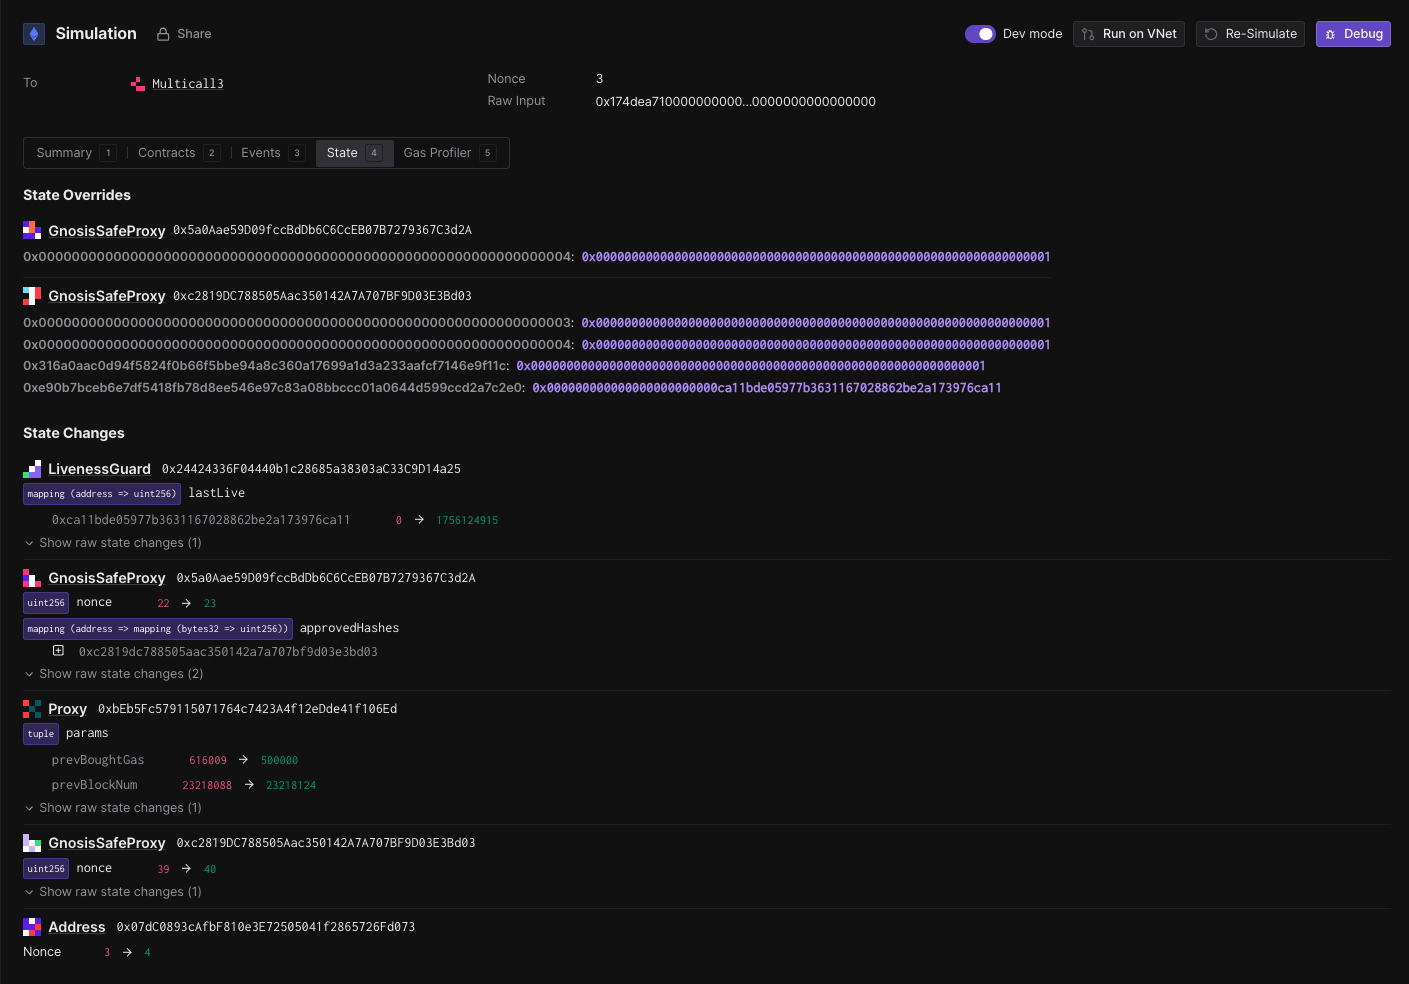
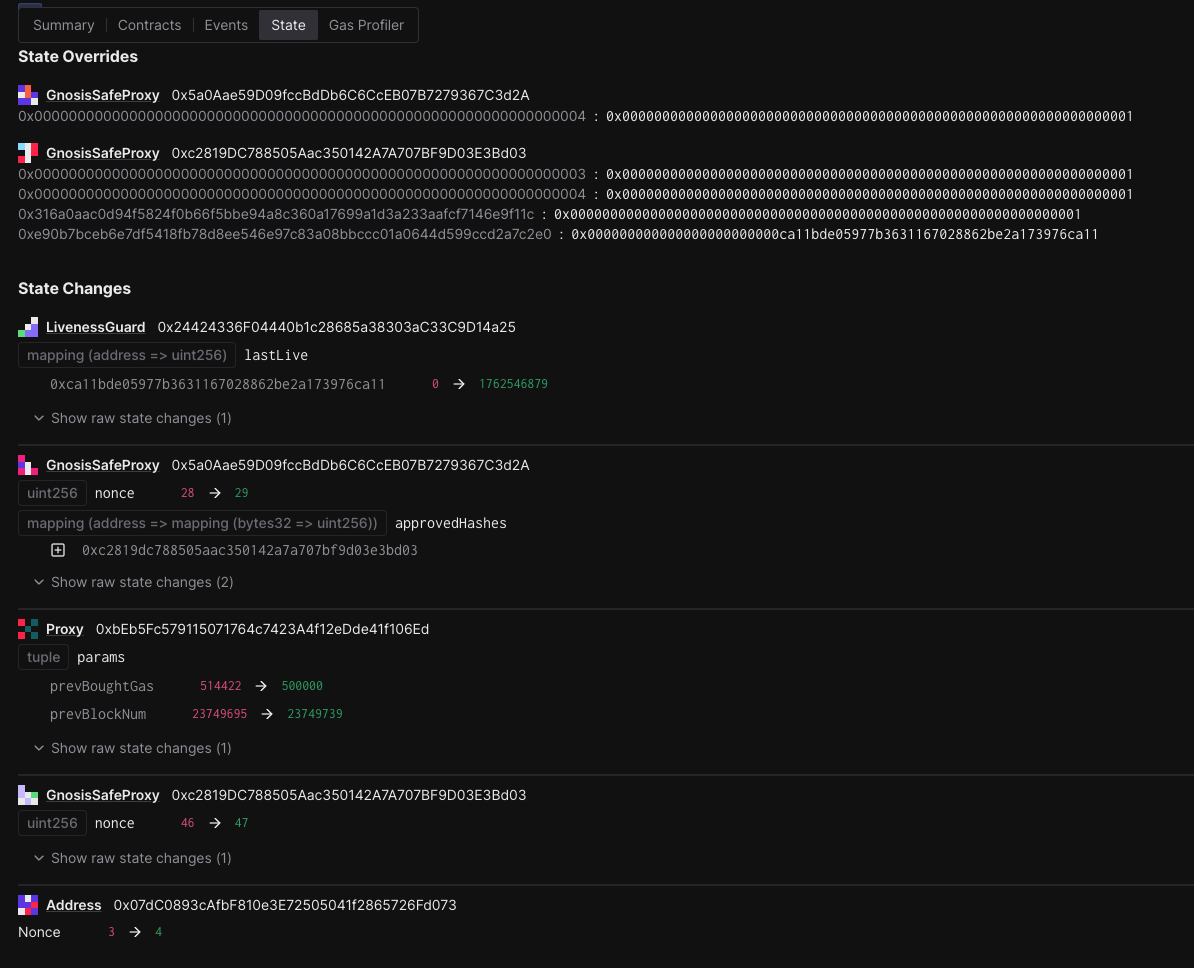
fix: replaced mocked upgrade

diff --git a/security-council-rehearsals/rehearsal-4-noop-upgrade/README.md b/security-council-rehearsals/rehearsal-4-noop-upgrade/README.md
@@ -9,7 +9,7 @@ Once completed:
 - A deposit transaction event will be emitted from the OptimismPortal contract on L1.
 - The Governor implementation on OP Mainnet will remain unchanged
 
-The call executed by the Safe contract is defined in the `build` function of the [`L1PortalExecuteL2Call`](src/template/L1PortalExecuteL2Call.sol) template.
+The call executed by the Safe contract is defined in the `build` function of the [`L1PortalExecuteL2Call`](/src/template/L1PortalExecuteL2Call.sol) template.
 
 Note: No onchain actions will occur during this rehearsal. You are not submitting a transaction, and your wallet does not need to be funded. You will simply sign an offchain message with your wallet. These signatures will be collected by a Facilitator, who will submit them for execution.
 Once the required number of signatures is collected, anyone can finalize the execution. For convenience, a Facilitator will handle this step.
@@ -29,9 +29,7 @@ See the [README](/README.md) for more information on how to install the dependen
 
 ### 2. Setup Ledger
 
-Your Ledger needs to be connected and unlocked. The Ethereum
-application needs to be opened on Ledger with the message “Application
-is ready”.
+Your Ledger needs to be connected and unlocked. The Ethereum application needs to be opened on Ledger with the message “Application is ready”.
 
 ### 3. Simulate and validate the transaction
 
@@ -41,19 +39,16 @@ Make sure your ledger is still unlocked and run the following.
 cd src/tasks/<network>/rehearsals/<rehearsal-task-name>
 just --dotenv-path $(pwd)/.env simulate
 # For a different derivation path, use: HD_PATH=1 just --dotenv-path $(pwd)/.env simulate
-# For simulating without Ledger, use: SIMULATE_WITHOUT_LEDGER=1 just --dotenv-path $(pwd)/.env simulate
+# For simulating without Ledger, use: SIMULATE_WITHOUT_LEDGER=1 just --dotenv-path $(pwd)/.env simulate council
 ```
 
 You will see a "Simulation link" URL in the output.
 
-Copy this URL from the output and and open it with your browser. A prompt may ask you to choose a
-project, any project will do. You can create one if necessary.
+Copy this URL from the output and and open it with your browser. A prompt may ask you to choose a project, any project will do. You can create one if necessary.
 
 Click "Simulate Transaction".
 
-We will be performing 3 validations and ensure the domain hash and
-message hash are the same between the Tenderly simulation and your
-Ledger:
+We will be performing 3 validations and ensure the domain hash and message hash are the same between the Tenderly simulation and your Ledger:
 
 1. Validate integrity of the simulation.
 2. Validate correctness of the state diff.
@@ -96,7 +91,7 @@ Now click on the "Events" tab. Verify that:
 1. `TransactionDeposited` event has been emitted by the Optimism Portal. This should include:
    - The correct `to` address, in this case, the address used in the `config.toml` for `l2Target`.
    - The correct `from` address, in this case, the aliased address of the `ProxyAdmin`.
-   - The correct calldata sent to the Governor in the `opaqueData` field: this is the concatenation of the value sent to the contract, the gas limit, a flag indicating if we are creating a contract (`false` in this rehearsal) and the actual call made to the L2 contract.
+   - The correct calldata sent to the target in the `opaqueData` field: this is the concatenation of the value sent to the contract, the gas limit, a flag indicating if we are creating a contract (`false` in this rehearsal) and the actual call made to the L2 contract.
 
 Here is an example screenshot. Note the specific data might be different:
 
@@ -109,7 +104,7 @@ In this rehearsal the values correspond to:
 0000000000000000000000000000000000000000000000000000000000000000 -> value sent to L2 contract
 000000000007a120 -> Gas Limit, in the photo the value corresponds to 500,000
 00 -> isCreation, set to false
-3659cfe60000000000000000000000000000000000000000000000000000000000001234 -> The abi-encoded call to `upgradeTo(address)` with address `0x0000000000000000000000000000000000001234`
+0x99a88ec4000000000000000000000000cdf27f107725988f2261ce2256bdfcde8b382b10000000000000000000000000637da4eeac836188d8c46f63cb2655f4d3c9f893 -> The abi-encoded call to `upgrade(address proxy, address implementation)` with proxy `0xcDF27F107725988f2261Ce2256bDfCdE8B382B10` and implementation `0x637DA4Eeac836188D8C46F63Cb2655f4d3C9F893`
 ```
 
 #### 3.3. Extract the domain hash and the message hash to approve.
